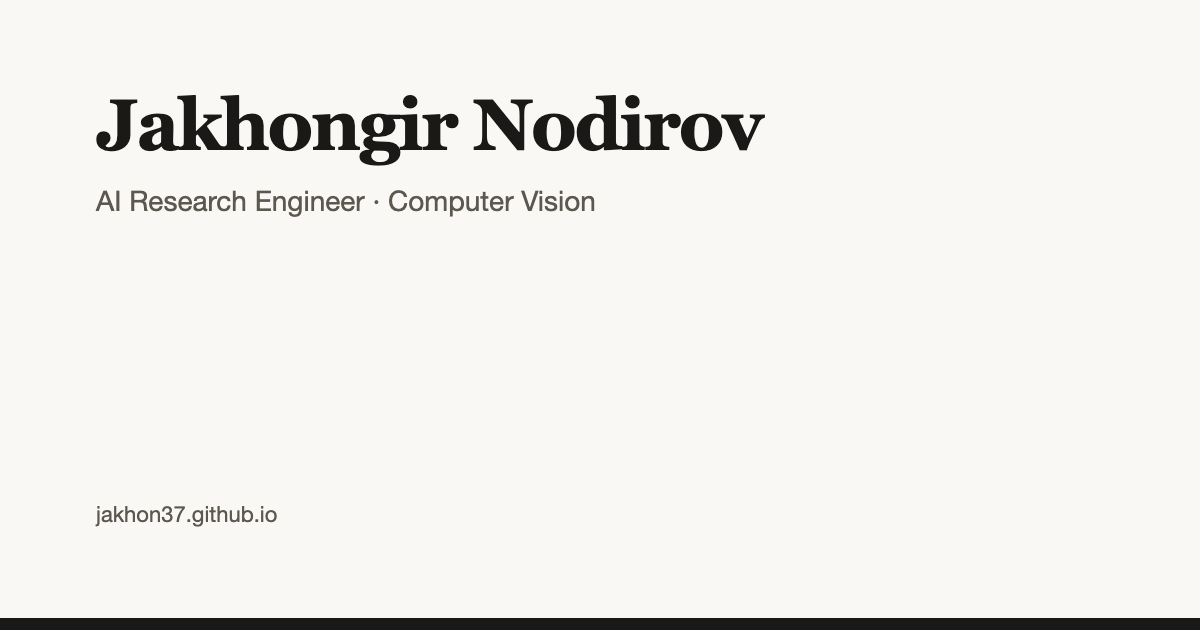
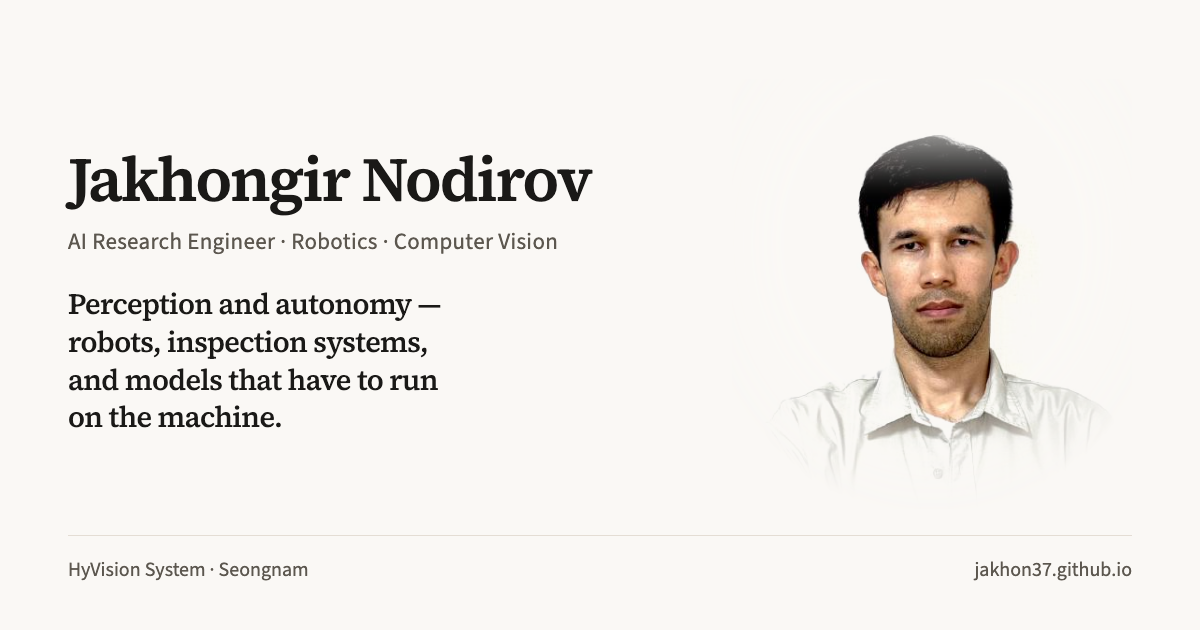
Rebuild the Open Graph card to match the current site.
Name, robotics focus, statement, and portrait now sit on the paper
layout; platforms get explicit image size and a cache-busting query.

diff --git a/scripts/og.html b/scripts/og.html
@@ -2,54 +2,141 @@
 <html lang="en">
   <head>
     <meta charset="utf-8" />
+    <title>og</title>
     <style>
+      @font-face {
+        font-family: "Source Serif 4 Variable";
+        font-style: normal;
+        font-display: block;
+        font-weight: 200 900;
+        src: url("../node_modules/@fontsource-variable/source-serif-4/files/source-serif-4-latin-wght-normal.woff2")
+          format("woff2-variations");
+      }
+      @font-face {
+        font-family: "Source Sans 3 Variable";
+        font-style: normal;
+        font-display: block;
+        font-weight: 200 900;
+        src: url("../node_modules/@fontsource-variable/source-sans-3/files/source-sans-3-latin-wght-normal.woff2")
+          format("woff2-variations");
+      }
+
+      * {
+        box-sizing: border-box;
+        margin: 0;
+        padding: 0;
+      }
+
       html,
       body {
-        margin: 0;
         width: 1200px;
         height: 630px;
+        overflow: hidden;
         background: #faf8f5;
         color: #1a1917;
-        font-family: Georgia, "Iowan Old Style", Palatino, serif;
       }
+
       .card {
-        box-sizing: border-box;
         width: 1200px;
         height: 630px;
-        padding: 88px 96px;
+        padding: 58px 68px 46px;
+        display: grid;
+        grid-template-columns: minmax(0, 1fr) 400px;
+        grid-template-rows: 1fr auto;
+        column-gap: 28px;
+        background: #faf8f5;
+      }
+
+      .copy {
         display: flex;
         flex-direction: column;
-        justify-content: space-between;
-        border-bottom: 12px solid #1a1917;
+        justify-content: center;
+        min-width: 0;
+        padding-bottom: 8px;
       }
-      h1 {
-        margin: 0 0 18px;
-        font-size: 72px;
+
+      .name {
+        font-family: "Source Serif 4 Variable", Georgia, "Iowan Old Style", serif;
+        font-size: 62px;
         font-weight: 600;
         letter-spacing: -0.03em;
-        line-height: 1.05;
+        line-height: 1.02;
       }
-      p {
-        margin: 0;
-        font-family: "Helvetica Neue", Helvetica, Arial, sans-serif;
-        font-size: 28px;
+
+      .role {
+        margin-top: 14px;
+        font-family: "Source Sans 3 Variable", "Helvetica Neue", Helvetica, sans-serif;
+        font-size: 23px;
+        font-weight: 400;
+        letter-spacing: 0.015em;
         color: #5c574f;
-        line-height: 1.35;
-        max-width: 920px;
       }
+
+      .statement {
+        margin-top: 28px;
+        font-family: "Source Serif 4 Variable", Georgia, "Iowan Old Style", serif;
+        font-size: 29px;
+        font-weight: 500;
+        letter-spacing: -0.022em;
+        line-height: 1.3;
+        max-width: 24ch;
+      }
+
+      .portrait-wrap {
+        align-self: center;
+        justify-self: end;
+        width: 400px;
+        height: 430px;
+        margin-bottom: 6px;
+      }
+
+      .portrait {
+        width: 400px;
+        height: 430px;
+        object-fit: cover;
+        object-position: center 18%;
+        -webkit-mask-image: radial-gradient(
+          ellipse 78% 82% at 50% 38%,
+          #000 46%,
+          transparent 78%
+        );
+        mask-image: radial-gradient(
+          ellipse 78% 82% at 50% 38%,
+          #000 46%,
+          transparent 78%
+        );
+      }
+
       .foot {
-        font-size: 22px;
+        grid-column: 1 / -1;
+        display: flex;
+        justify-content: space-between;
+        align-items: baseline;
+        padding-top: 20px;
+        border-top: 1px solid #e4ddd4;
+        font-family: "Source Sans 3 Variable", "Helvetica Neue", Helvetica, sans-serif;
+        font-size: 20px;
         color: #5c574f;
       }
     </style>
   </head>
   <body>
     <div class="card">
-      <div>
-        <h1>Jakhongir Nodirov</h1>
-        <p>AI Research Engineer · Computer Vision</p>
+      <div class="copy">
+        <h1 class="name">Jakhongir Nodirov</h1>
+        <p class="role">AI Research Engineer · Robotics · Computer Vision</p>
+        <p class="statement">
+          Perception and autonomy — robots, inspection systems, and models that
+          have to run on the machine.
+        </p>
       </div>
-      <p class="foot">jakhon37.github.io</p>
+      <div class="portrait-wrap">
+        <img class="portrait" src="../public/portrait.png" alt="" />
+      </div>
+      <div class="foot">
+        <span>HyVision System · Seongnam</span>
+        <span>jakhon37.github.io</span>
+      </div>
     </div>
   </body>
 </html>
